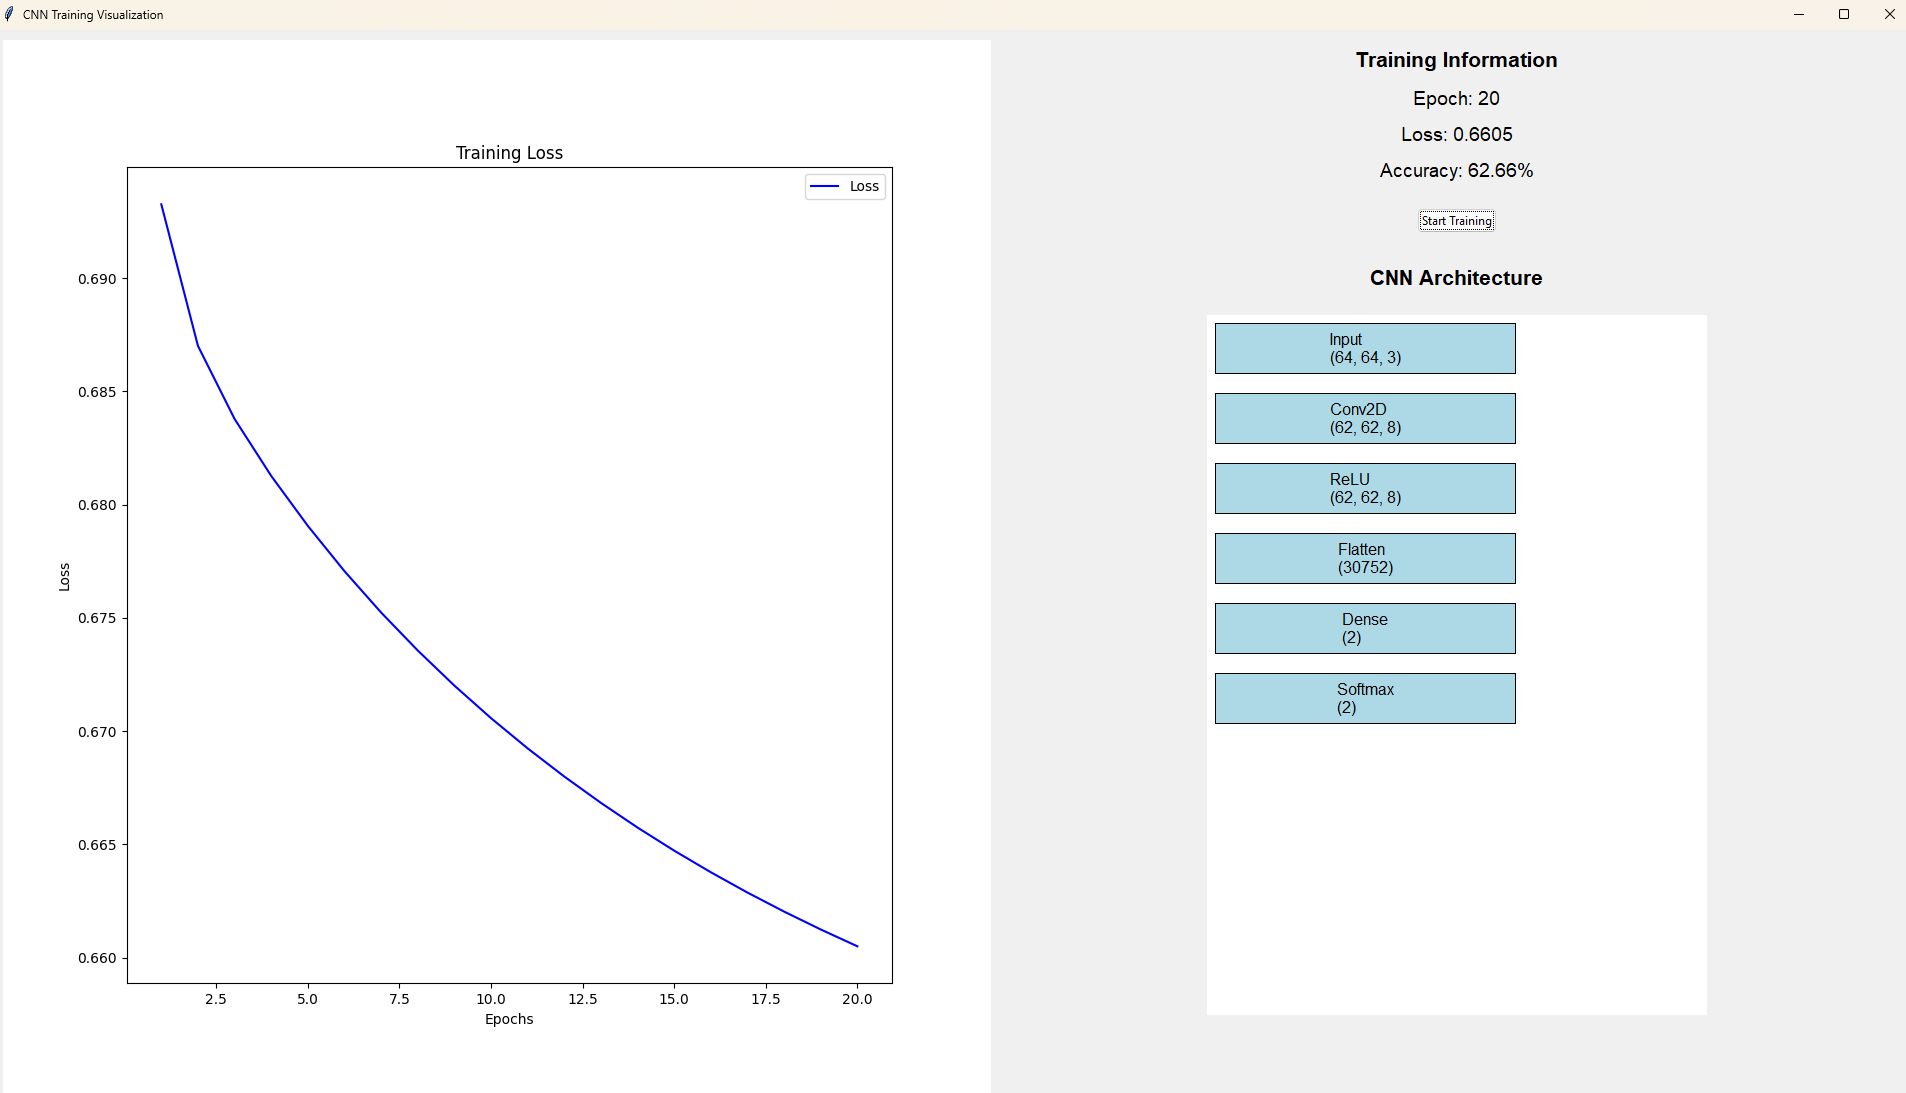
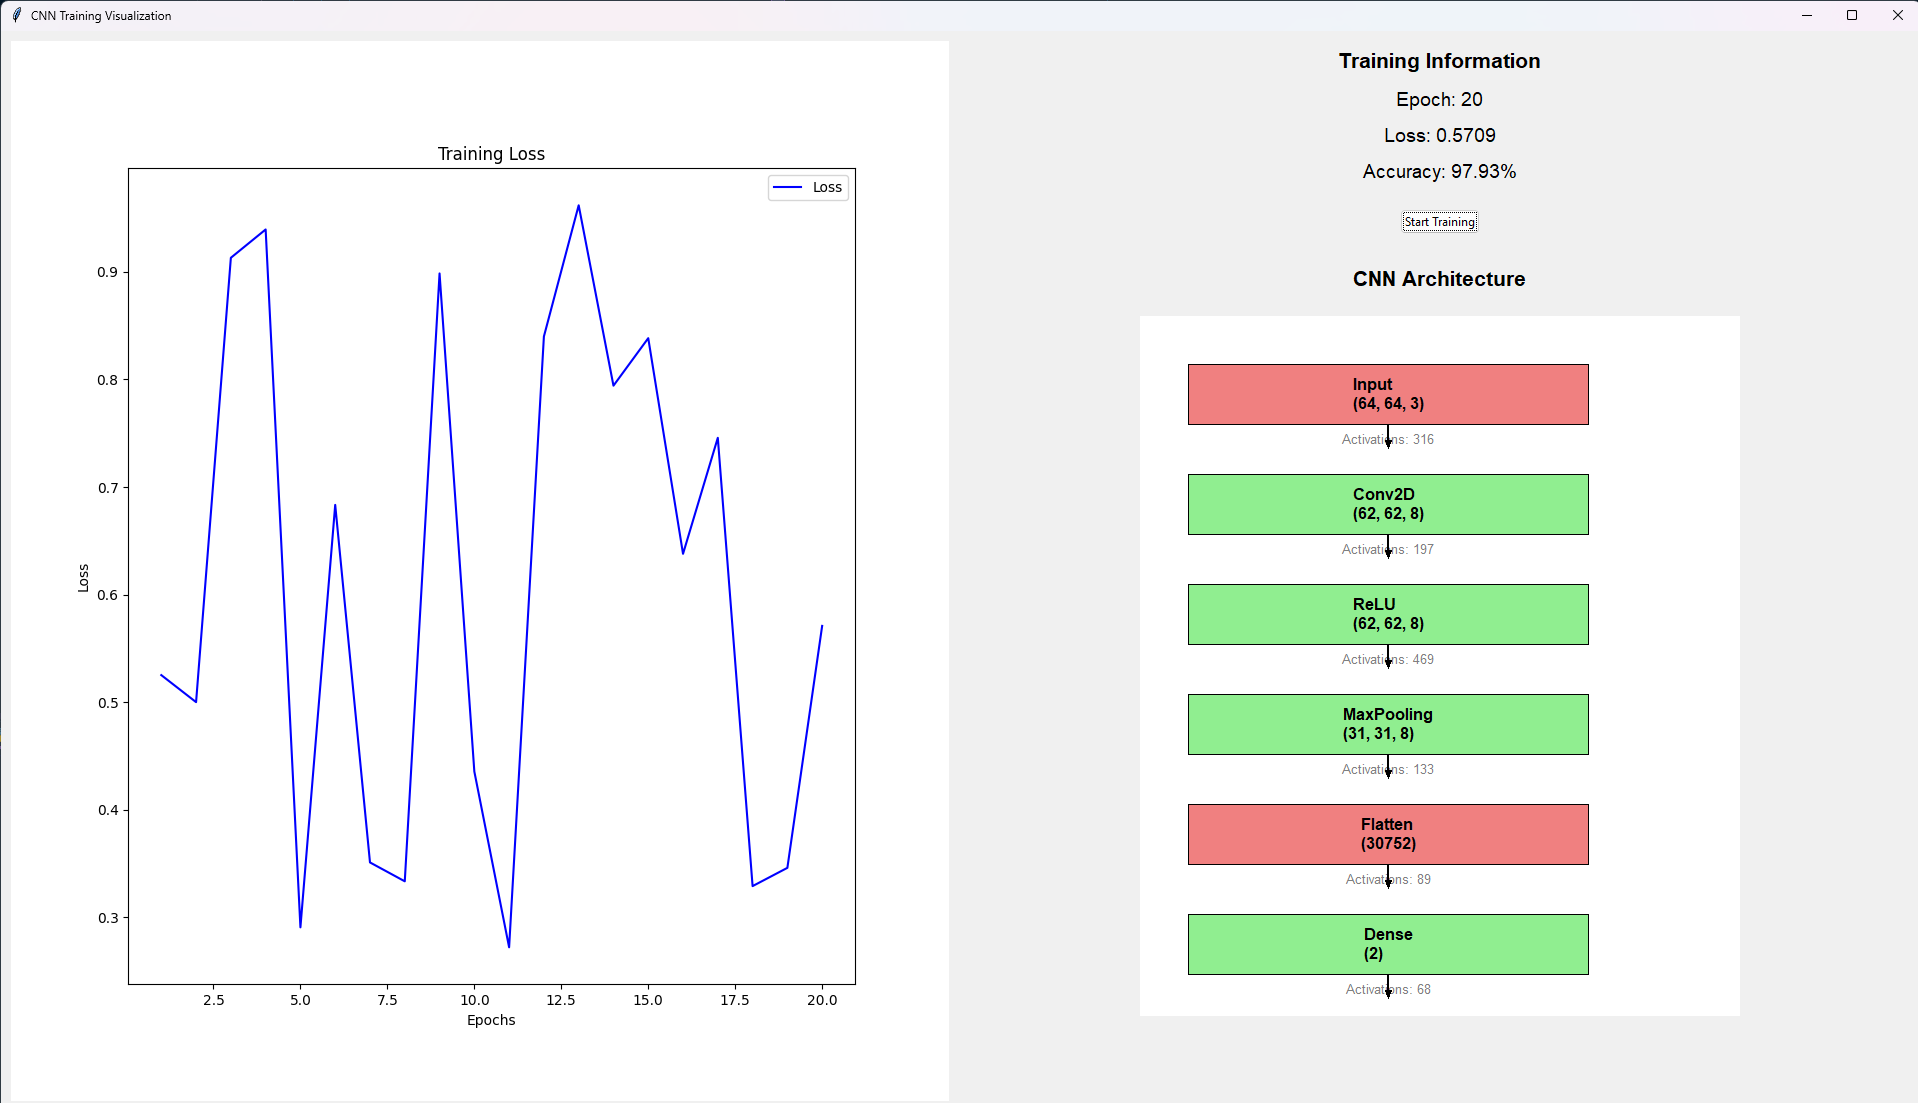
CNN Architecture update

diff --git a/CNN.py b/CNN.py
@@ -142,7 +142,7 @@ class CNNWithVisualization:
 
         return {"conv": dL_dconv, "fc": dL_dW_fc}
 
-    def train_with_visualization(self, train_images, train_labels, epochs=10, learning_rate=0.01,
+    def train_with_visualization(self, train_images, train_labels, epochs=20, learning_rate=0.01,
                                  gui_update_callback=None):
         """Train the CNN."""
         losses = []
@@ -321,7 +321,7 @@ class TrainingGUI:
         """Start the training process."""
         def training_thread():
             # Simulate training process
-            epochs = 10
+            epochs = 20
             losses = []
 
             for epoch in range(1, epochs + 1):

diff --git a/README.md b/README.md
@@ -14,11 +14,23 @@ This project implements a Convolutional Neural Network (CNN) from scratch and pr
 ## CNN Architecture
 
 The CNN implemented in this project consists of the following layers:
-1. **Input Layer**: Accepts images of size `(64, 64, 3)`.
-2. **Convolutional Layer**: Applies 8 filters of size `(3, 3)` with ReLU activation, resulting in an output shape of `(62, 62, 8)`.
-3. **Flatten Layer**: Flattens the output of the convolutional layer to a single vector of size `30752`.
-4. **Fully Connected Layer**: Dense layer with 2 neurons for binary classification.
-5. **Softmax Layer**: Outputs probabilities for the two classes.
+
+1. **Input Layer**: Accepts images of size `(128, 128, 3)`.
+2. **Convolutional Layer (Conv2D)**: Applies 8 filters of size `(3, 3)` with ReLU activation, resulting in an output shape of `(126, 126, 8)`.
+3. **Max Pooling Layer**: Reduces the spatial dimensions by applying a pool size of `(2, 2)`, resulting in an output shape of `(63, 63, 8)`.
+4. **Fully Connected Layer**: Flattens the output to a vector of size `30752`, followed by a dense layer with 2 neurons for binary classification.
+5. **Output Layer**: Outputs probabilities for the two classes using the Softmax activation function.
+
+**CNN Architecture Visualization**
+   - The architecture of the CNN is dynamically displayed on the right side of the UI. 
+   - Each layer is represented as a rectangular box, with the following information displayed inside:
+     - **Layer Type**: Shows the type of the layer (e.g., Input, Convolutional, ReLU, etc.).
+     - **Shape/Output Shape**: Displays the dimensions of the layer's output (e.g., `(128, 128, 3)` for the input layer or `(126, 126, 8)` for the convolutional layer).
+   - The UI also dynamically updates the layer colors based on the training progress. 
+     - **Green**: Indicates a layer with updated weights.
+     - **Red**: Indicates a layer with inactive or untrained weights.
+   - Optionally, activation outputs can be visualized under each layer, showing the number of activations in each layer during training.
+
 
 ## GUI Overview
 
